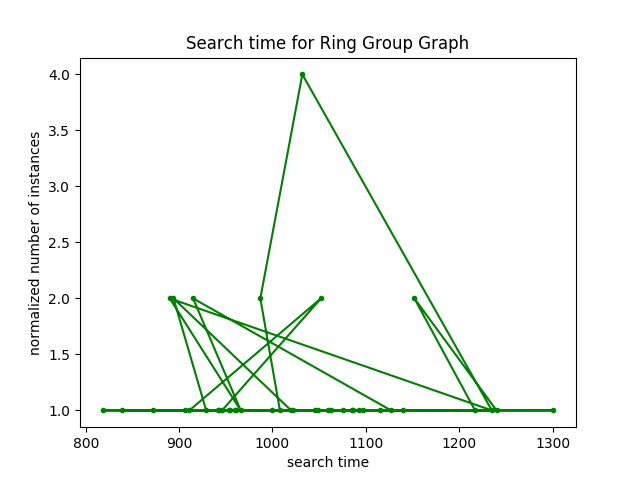
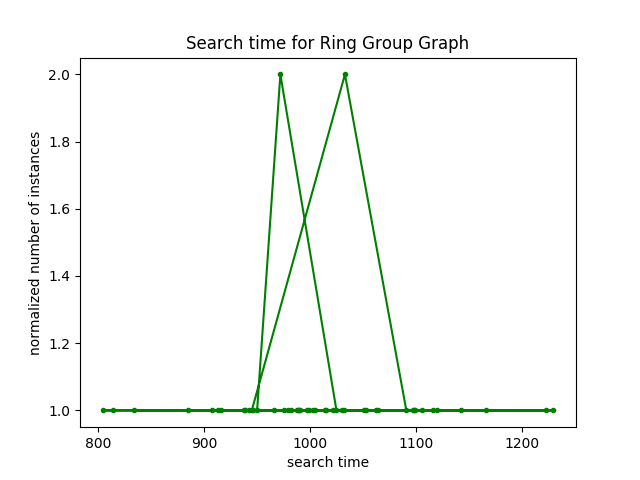
added code in q1 for p+q=0.5 case

diff --git a/q1-ring-group-graphs.py b/q1-ring-group-graphs.py
@@ -106,7 +106,7 @@ def average_normalized_degree_distribution(t, m, k, p ,q):
     return average_dist
 
 
-def create_degree_distribution_plot(degree_distributions, plot_file_name, plot_name):
+def create_n_degree_distribution_plot(degree_distributions, plot_file_name, plot_name):
     colours = ['b', 'g', 'r', 'c', 'm', 'y', 'k']
 
     i = 0
@@ -126,7 +126,7 @@ def create_degree_distribution_plot(degree_distributions, plot_file_name, plot_n
         for deg in dd:
             xdata += [deg]
             ydata += [dist[deg]]
-        plt.plot(xdata, ydata, marker='.', linestyle='-', color=colours[i % num_colours], label='p = ' + p)
+        plt.plot(xdata, ydata, marker='.', linestyle='-', color=colours[i % num_colours], label='p = ' + p + ', q = ' + q)
         i += 1
     plt.legend(loc='upper left')
     plt.savefig('distributions/' + plot_file_name + '.png')
@@ -217,7 +217,7 @@ def rgg(m,k,p,q):
 
 def main():
     m = 50
-    k = 10
+    k = 20
     q = 0.00001
 
     mGreater_dia = []
@@ -247,8 +247,34 @@ def main():
             if val2 is not -1:
                 kGreater_dd += [(m,k,p,q,val2)]
 
-        create_degree_distribution_plot(kGreater_dd, 'q1/prob-p/' + str(k) + '-' + str(m) + '-' + str(q), 'Ring Group Graph')
-        create_degree_distribution_plot(kGreater_dd, 'q1/prob-p/' + str(k) + '-' + str(m) + '-' + str(q), 'Ring Group Graph')
+        create_n_degree_distribution_plot(mGreater_dd, 'q1/prob-p/' + str(m) + '-' + str(k) + '-' + str(q), 'Ring Group Graph')
+        create_n_degree_distribution_plot(kGreater_dd, 'q1/prob-p/' + str(k) + '-' + str(m) + '-' + str(q), 'Ring Group Graph')
+
+        q *= 10
+
+    q = 0.001
+
+    for i in range(3):
+        # rgg_dict = {}
+        mGreater_dd = []
+        kGreater_dd = []
+
+        p = 0.5 - q
+        temp_q = q
+
+        while p > temp_q:
+            val1 = average_normalized_degree_distribution(100, m, k, p, temp_q)
+            if val1 is not -1:
+                mGreater_dd += [(m, k, p, temp_q, val1)]
+            val2 = average_normalized_degree_distribution(100, k, m, p, temp_q)
+            if val2 is not -1:
+                kGreater_dd += [(m, k, p, temp_q, val2)]
+
+            temp_q += 0.05
+            p = 0.5 - temp_q
+
+        create_n_degree_distribution_plot(kGreater_dd, 'q1/' + str(k) + '-' + str(m), 'Ring Group Graph')
+        create_n_degree_distribution_plot(mGreater_dd, 'q1/' + str(m) + '-' + str(k), 'Ring Group Graph')
 
         q *= 10
 

diff --git a/q3-searching-problem.py b/q3-searching-problem.py
@@ -360,7 +360,7 @@ def plot_search_time_num_instances(search_time_ins, plot_file_name, plot_name):
     plt.xlabel('search time')
     plt.ylabel('normalized number of instances')
     plt.title('Search time for ' + plot_name)
-    plt.plot(xdata, ydata, marker='.', linestyle='-', color='g')
+    plt.plot(xdata, ydata, marker='.', linestyle='None', color='g')
     plt.savefig('distributions/q3/' + plot_file_name + '.png')
 
 
@@ -384,14 +384,14 @@ def plot_n_search_time_num_instances(all_times, plot_file_name, plot_name):
         for search_time in search_time_ins:
             xdata += [search_time]
             ydata += [search_time_ins[search_time]]
-        plt.plot(xdata, ydata, marker='.', linestyle='None', color=colours[i % num_colours], label= 'graph param = ' + str(param))
+        plt.plot(xdata, ydata, marker='.', linestyle='None', color=colours[i % num_colours], label= 'params = ' + str(param))
         i += 1
     plt.legend(loc='upper left')
     plt.savefig('distributions/q3/' + plot_file_name + '.png')
 
 
 def run_search_ring_group_graph():
-    params = [(20,50,0.45,0.001), (20,50,0.45,0.0001), (20,50,0.45,0.01)]
+    params = [(20,50,0.45,0.01), (20,50,0.45,0.001), (20,50,0.45,0.0001)]
 
     # sample of 50 pair of vertices
     t1 = 50
